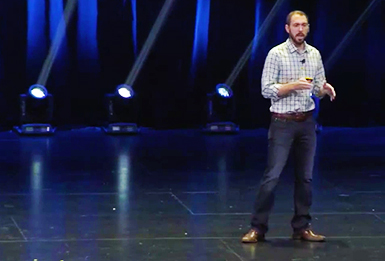
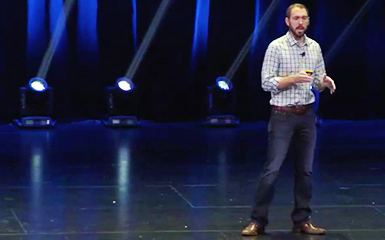
video style updated

diff --git a/index.html b/index.html
@@ -16,7 +16,7 @@ title: Enterprise Landing
                 </div>
                 <div class="col-sm-6 col-md-4">
                         <a href="#" data-toggle="modal" data-target="#VideoModalHero">
-                        <div class="video-wrapper">
+                        <div class="video-wrapper hero">
                             <div class="play-button">
                                 <img src="/images/play-button.png"> 
                             </div>

diff --git a/_site/index.html b/_site/index.html
@@ -288,7 +288,7 @@
                 </div>
                 <div class="col-sm-6 col-md-4">
                         <a href="#" data-toggle="modal" data-target="#VideoModalHero">
-                        <div class="video-wrapper">
+                        <div class="video-wrapper hero">
                             <div class="play-button">
                                 <img src="/images/play-button.png"> 
                             </div>

diff --git a/_site/css/combined.css b/_site/css/combined.css
@@ -4974,6 +4974,11 @@ a.enterprise-bar-right {
     cursor: pointer;
     opacity: 1; }
 
+.video-wrapper.hero {
+  border: 4px solid rgba(255, 255, 255, 0.5); }
+  .video-wrapper.hero:hover {
+    border: 4px solid white; }
+
 .why-ues-wrapper {
   padding: 70px 0; }
 

diff --git a/css/combined.css b/css/combined.css
@@ -4974,6 +4974,11 @@ a.enterprise-bar-right {
     cursor: pointer;
     opacity: 1; }
 
+.video-wrapper.hero {
+  border: 4px solid rgba(255, 255, 255, 0.5); }
+  .video-wrapper.hero:hover {
+    border: 4px solid white; }
+
 .why-ues-wrapper {
   padding: 70px 0; }
 

diff --git a/_scss/_enterprise.scss b/_scss/_enterprise.scss
@@ -1088,6 +1088,12 @@ a.enterprise-bar-right {
         opacity: 1;
     }
 }
+.video-wrapper.hero {
+    border: 4px solid rgba(255,255,255,0.5);
+    &:hover {
+        border: 4px solid rgba(255,255,255,1);
+    }
+}
 .why-ues-wrapper {
     padding: 70px 0;
 }
